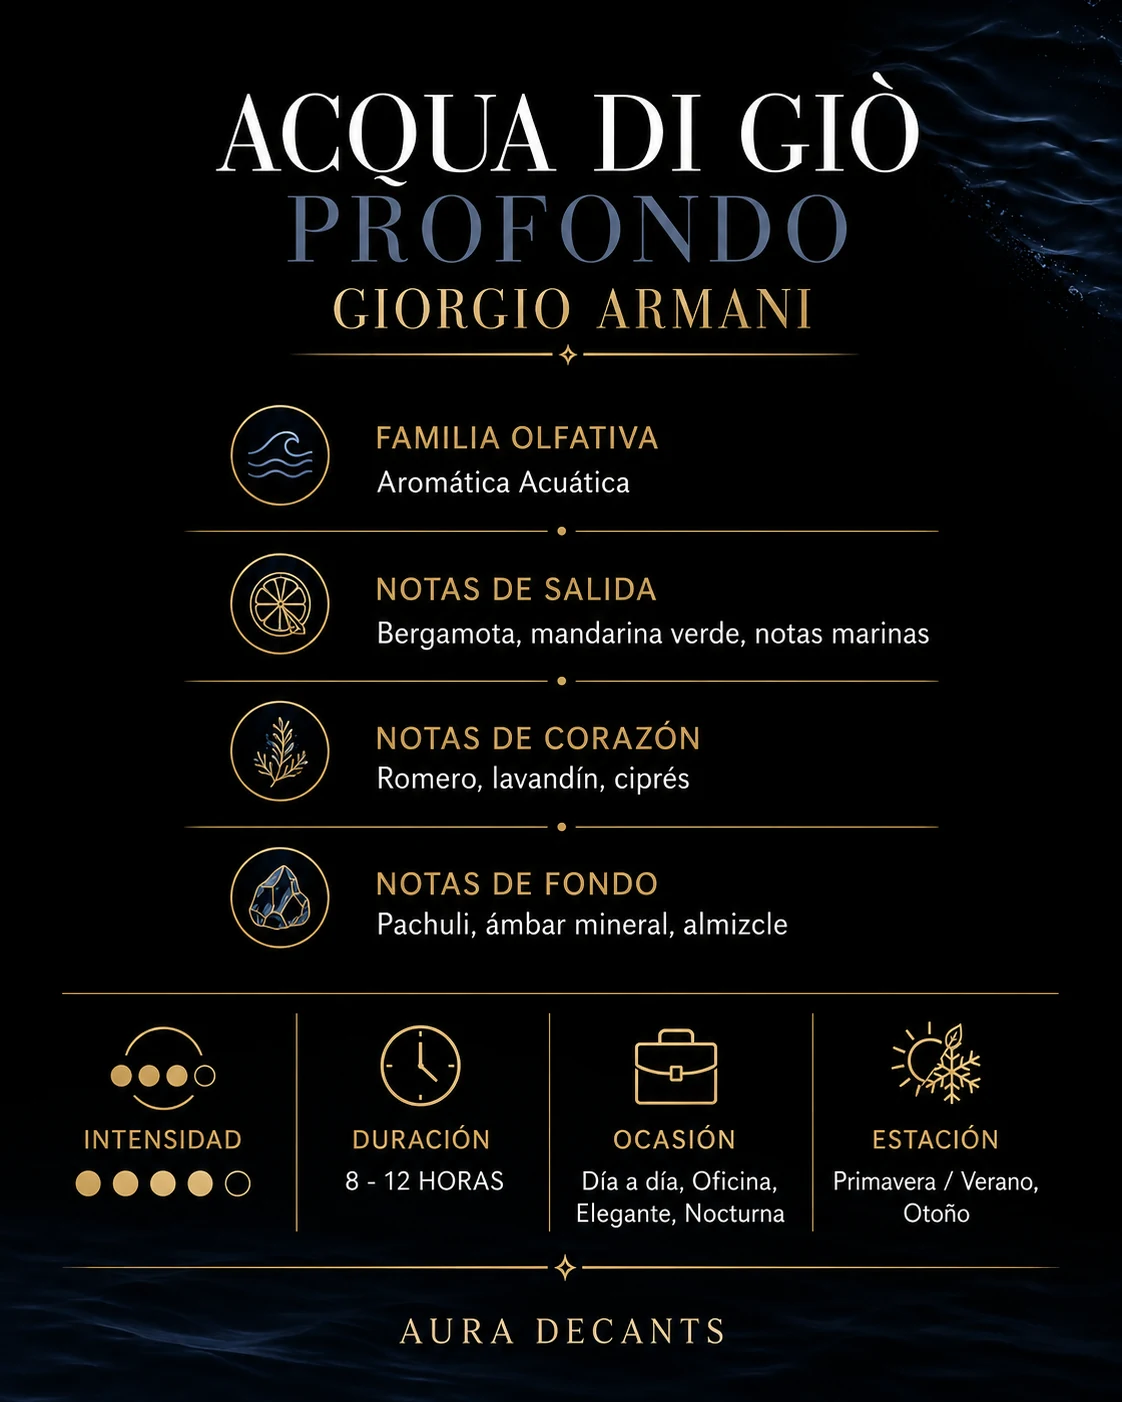
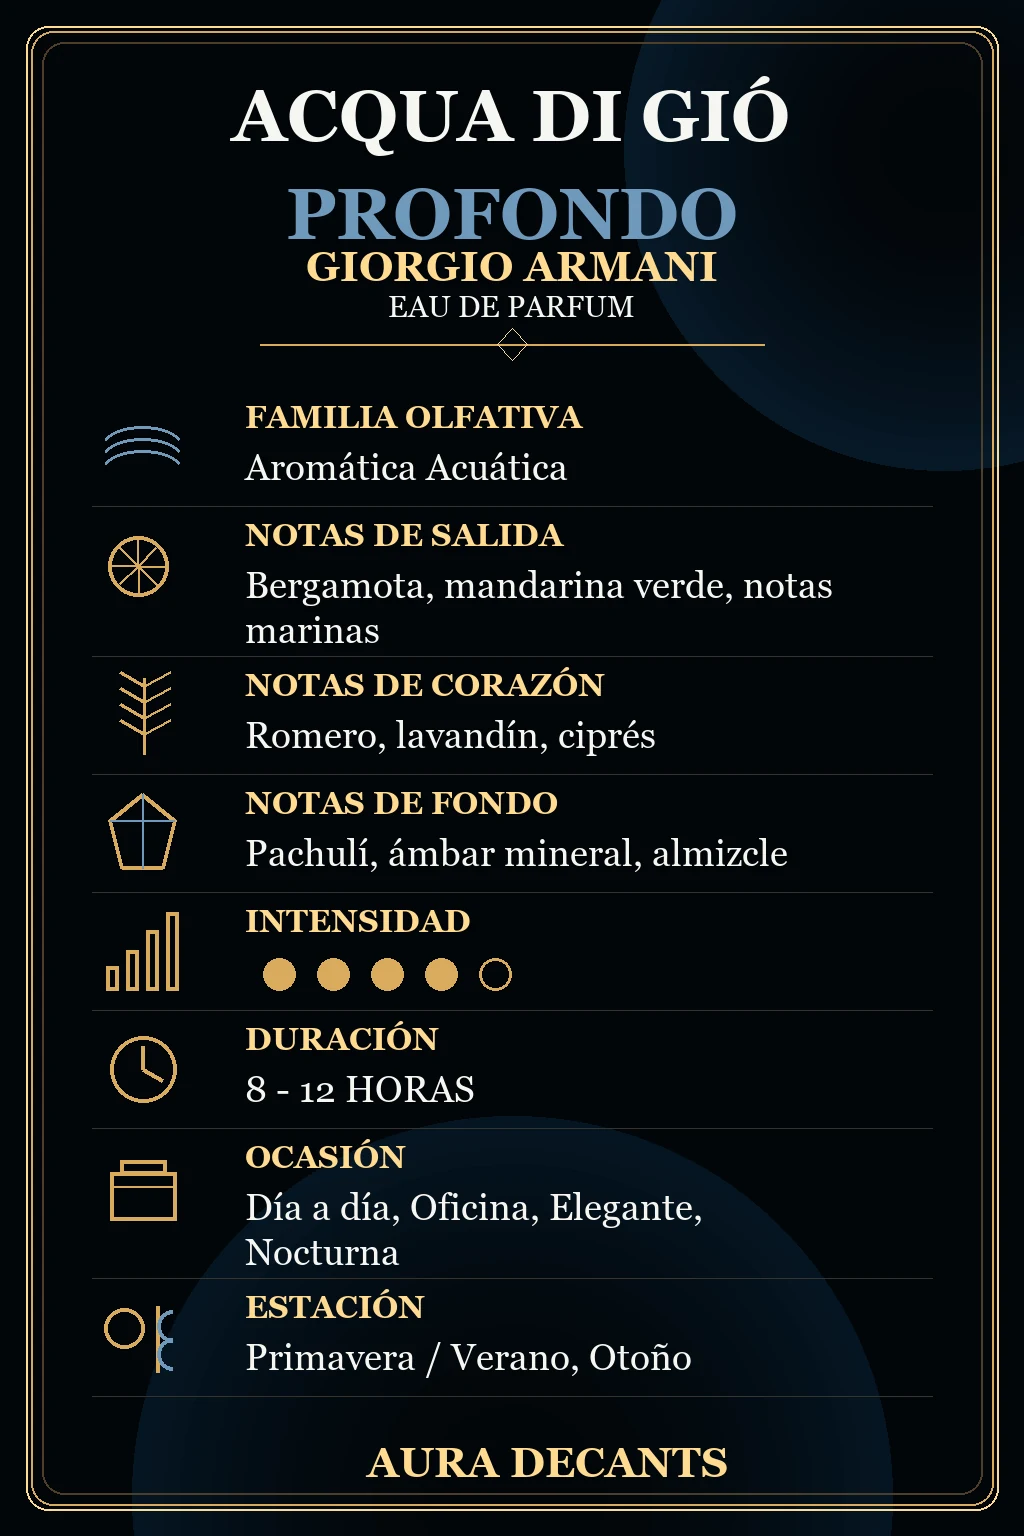
feat: actualizar imagenes de Acqua di Gio Profondo y numero de WhatsApp por defecto

diff --git a/src/main/resources/templates/admin/configuracion.html b/src/main/resources/templates/admin/configuracion.html
@@ -222,12 +222,12 @@
         <div style="padding:1.75rem 2rem;">
             <p style="font-size:0.85rem; color:#555; margin-bottom:1.25rem;">
                 Número que aparece en los botones de WhatsApp del sitio y en la confirmación de pedidos.
-                Incluye código de país sin el <code>+</code> (ej. <code>525631555401</code>).
+                Incluye código de país sin el <code>+</code> (ej. <code>528119874977</code>).
             </p>
             <form th:action="@{/aura-gestion/configuracion/whatsapp}" method="post"
                   style="display:flex; gap:0.75rem; align-items:center; flex-wrap:wrap;">
                 <input type="text" name="waNumero" th:value="${waNumero}"
-                       placeholder="525631555401" required
+                       placeholder="528119874977" required
                        style="flex:1; min-width:200px; padding:0.6rem 0.9rem;
                               border:1.5px solid #e0e0e0; border-radius:8px; font-size:0.9rem;
                               font-family:monospace; outline:none;">

diff --git a/src/main/java/mx/decants/service/ConfiguracionService.java b/src/main/java/mx/decants/service/ConfiguracionService.java
@@ -55,6 +55,6 @@ public class ConfiguracionService {
 
     @Transactional(readOnly = true)
     public String getWhatsappNegocio() {
-        return get("whatsapp_negocio", "525631555401");
+        return get("whatsapp_negocio", "528119874977");
     }
 }